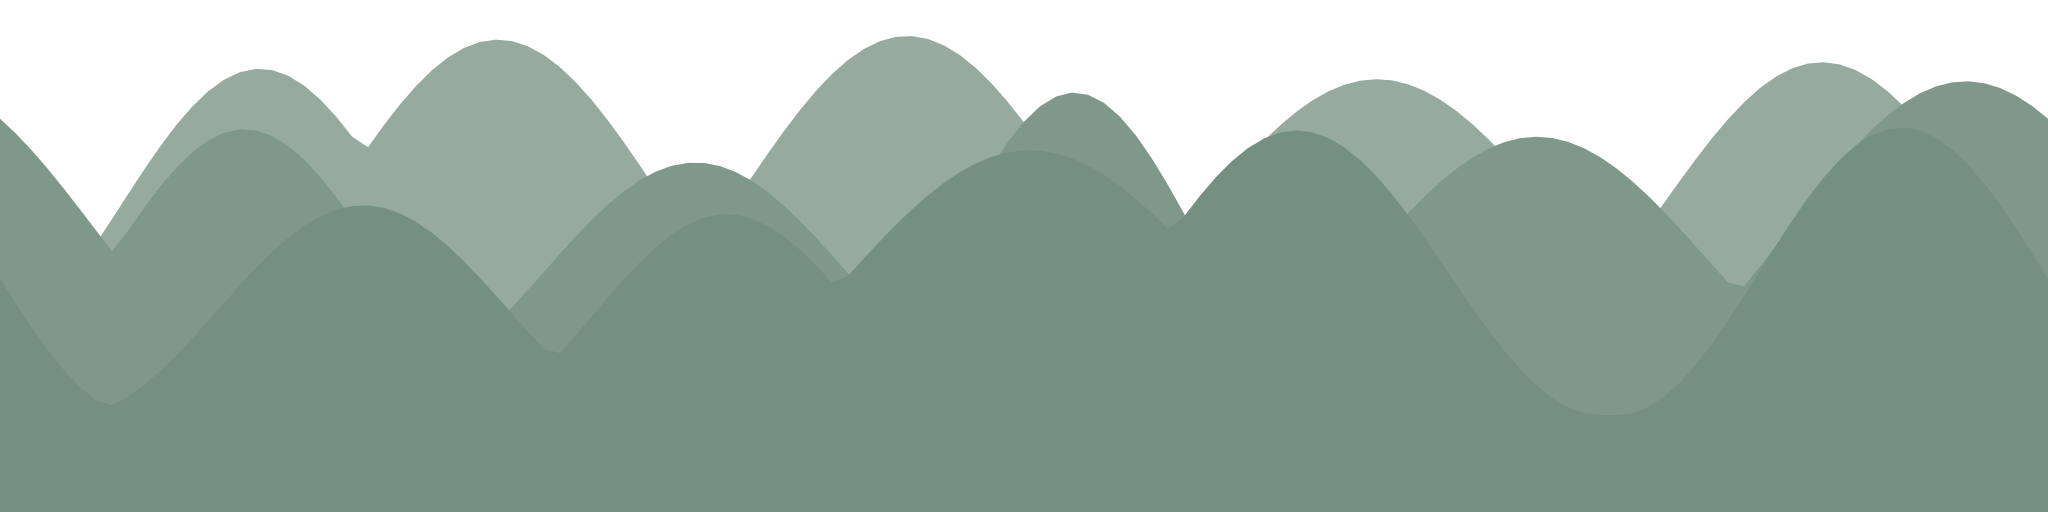
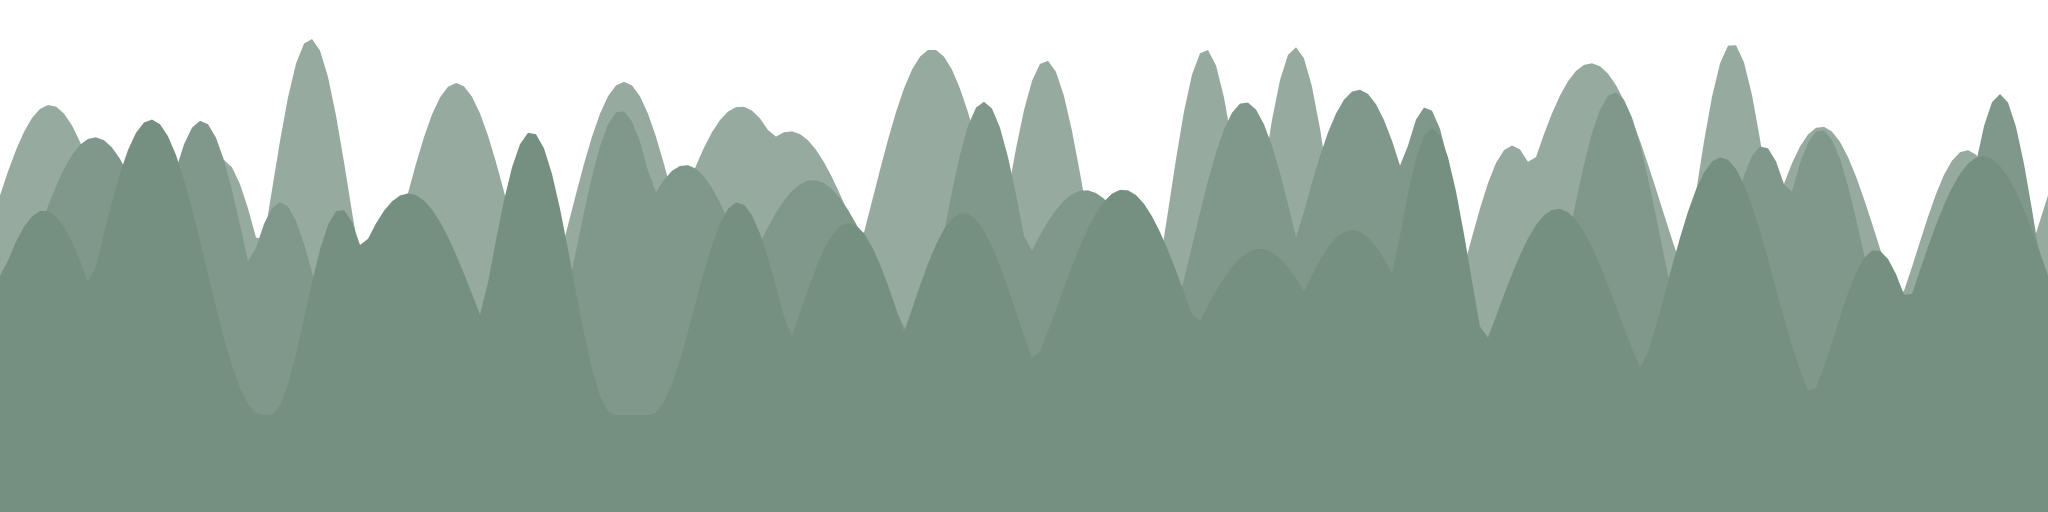
feat(rendering): compose irregular river crests at visible angular scale

Changed region(s): [[0.0, 0.0625, 1.0, 0.625]]

diff --git a/tools/experiments/far-backdrop-data.js b/tools/experiments/far-backdrop-data.js
@@ -4,10 +4,10 @@ const colors={savanna:['#afa6a7','#b8a69c','#b19c82'],grand_river:['#96aaa0','#8
 function random(seed){return()=>{seed=Math.imul(seed^seed>>>15,1|seed);seed^=seed+Math.imul(seed^seed>>>7,61|seed);return ((seed^seed>>>14)>>>0)/4294967296;};}
 export function backdropProfile(biome,layer){
  const index=backdropBiomes.indexOf(biome);if(index<0||!Number.isInteger(layer)||layer<0||layer>2)throw Error('Invalid backdrop profile');
- const step=biome==='savanna'?8:16,r=random(1471+index*193+layer*277),jitter=Array.from({length:2048/step},()=>r()*7),points=[];
+ const step=(biome==='savanna'||biome==='grand_river')?8:16,r=random(1471+index*193+layer*277),jitter=Array.from({length:2048/step},()=>r()*7),points=[];
  // Broad separated ridges and short mesa caps, independently composed per layer.
  // Avoid three phase-aligned sine waves that read as parallel horizontal bands.
- const riverRidges=biome==='grand_river'?Array.from({length:5},(_,i)=>({center:(i+.1+r()*.8)*2048/5,width:210+r()*170,height:225+r()*95-layer*14})):null;
+ const riverRidges=biome==='grand_river'?Array.from({length:16},(_,i)=>({center:(i+.1+r()*.8)*2048/16,width:70+r()*70,height:185+r()*145-layer*14})):null;
  const ridges=biome==='savanna'?Array.from({length:7},(_,i)=>({center:(i+.15+r()*.7)*2048/7,width:125+r()*110,height:105+r()*95-layer*12,cap:.10+r()*.17})):null;
  for(let x=0;x<=2048;x+=step){const wrap=x%2048;let height;
   if(ridges){let relief=0;for(const ridge of ridges){const dx=Math.min(Math.abs(wrap-ridge.center),2048-Math.abs(wrap-ridge.center)),p=dx/ridge.width;relief=Math.max(relief,ridge.height*(p<ridge.cap?1:Math.max(0,1-(p-ridge.cap)/(1-ridge.cap))));}height=315+layer*42-relief+Math.sin(wrap*Math.PI*2/2048*(5+layer)) * 3;}

diff --git a/tests/far-backdrop-data.test.js b/tests/far-backdrop-data.test.js
@@ -28,5 +28,5 @@ test('river skyline uses independent broad rolling relief without parallel low b
  assert.ok(Math.min(...a.map(p=>p[1]))<115);
  assert.ok(Math.max(...a.map(p=>p[1]))-Math.min(...a.map(p=>p[1]))>200);
  // Rounded hills have gradual adjacent changes; no isolated thin vertical peaks.
- assert.ok(a.slice(1).every((p,i)=>Math.abs(p[1]-a[i][1])<36));
+ assert.ok(a.slice(1).every((p,i)=>Math.abs(p[1]-a[i][1])<64));
 });

diff --git a/docs/qa/far-biome-integration/README.md b/docs/qa/far-biome-integration/README.md
@@ -330,3 +330,5 @@ The same guard, Gran Río/media with normal shadows and no diagnostic GL wrapper
 ### Gran Río decorative relief candidate
 
 After correctness recovery is demonstrated, the offline Gran Río skyline now places its rounded peaks higher in the existing atlas. This addresses the low-band counterexample without changing the85m cylinder, shader, one texture read or2048×512 resolution. Image bytes14,760→18,078; estimated decoded GPU texture allocation is unchanged. Nine offline generation/backdrop tests pass (periodicity, independent rounded layers, skyline/body alpha and byte-exact deployment). No native visual or frametime acceptance is claimed yet; the former river-ridges-day/night images remain the comparison baseline.
+
+Native river-raised-relief-day/night captures match the previous camera exactly and report errors/WebGL0. The skyline is higher but still reads as broad bands: five rounded ridges span too large an angle. This candidate is not final art acceptance. A subsequent offline composition uses16 irregular narrower crests with8px profile sampling and varying amplitude; same atlas size/cylinder/material, nine focused tests pass. Its native views are still pending.
